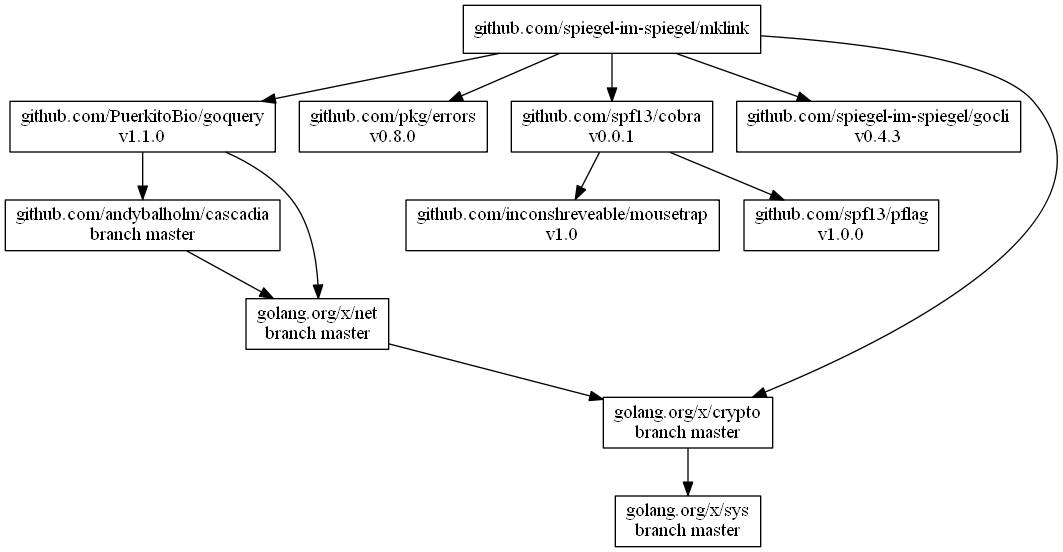
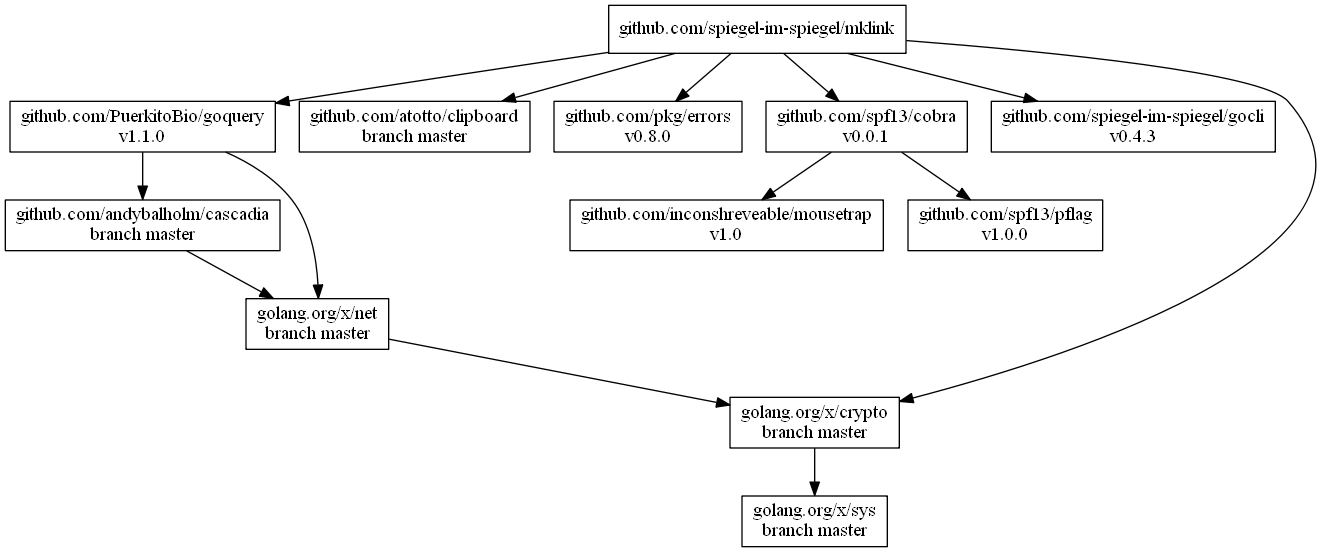
Copy link to clipboard

diff --git a/cli/mklink/makelink/makelink.go b/cli/mklink/makelink/makelink.go
@@ -2,8 +2,10 @@ package makelink
 
 import (
 	"bytes"
+	"fmt"
 	"io"
 
+	"github.com/atotto/clipboard"
 	"github.com/spiegel-im-spiegel/mklink"
 )
 
@@ -27,12 +29,12 @@ func (c *Context) MakeLink(url string) error {
 	}
 
 	r := lnk.Encode(c.linkStyle)
-	if c.log == nil {
-		io.Copy(c.writer, r)
-	} else {
-		buf := new(bytes.Buffer)
-		io.Copy(c.writer, io.TeeReader(r, buf))
-		io.Copy(c.log, buf)
+	buf := new(bytes.Buffer)
+	io.Copy(c.writer, io.TeeReader(r, buf))
+	strLink := buf.String()
+	clipboard.WriteAll(strLink)
+	if c.log != nil {
+		fmt.Fprint(c.log, strLink)
 	}
 	return nil
 }
